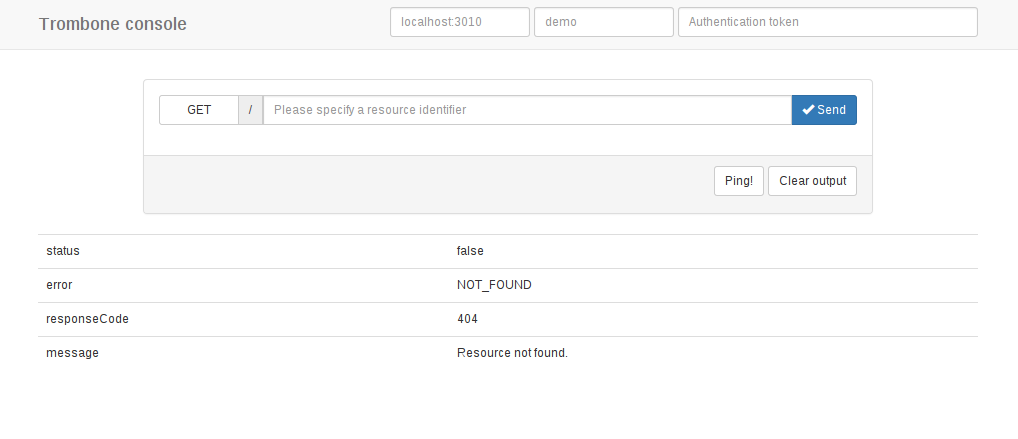
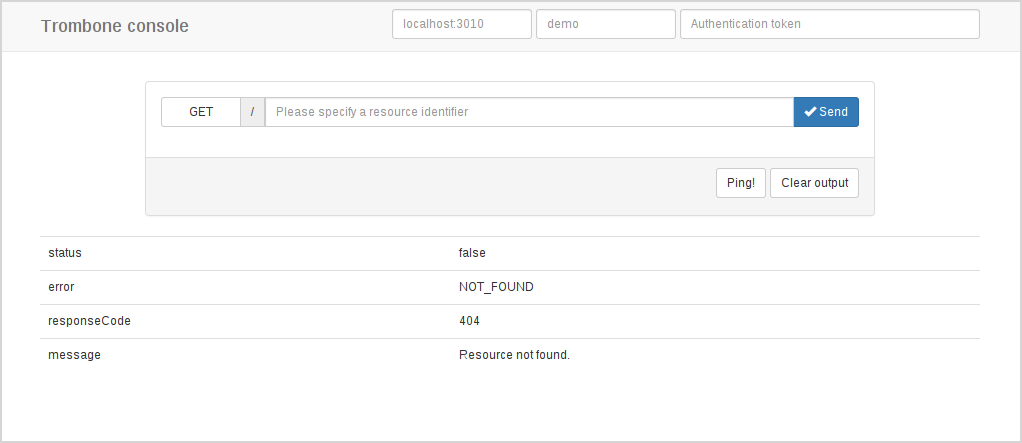
Docs

diff --git a/docs/basic-configuration.rst b/docs/basic-configuration.rst
@@ -59,6 +59,12 @@ A typical response (if the service is running):
 
 
 
+Console app
+***********
+
+.. image:: console.png 
+
+
 Unix signal handlers
 --------------------
 
